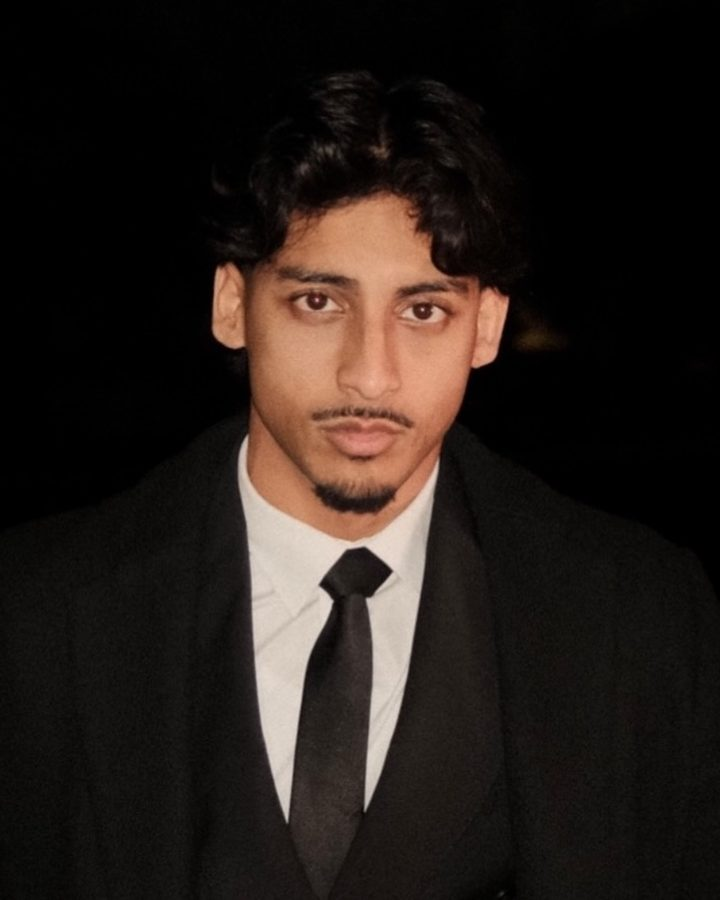
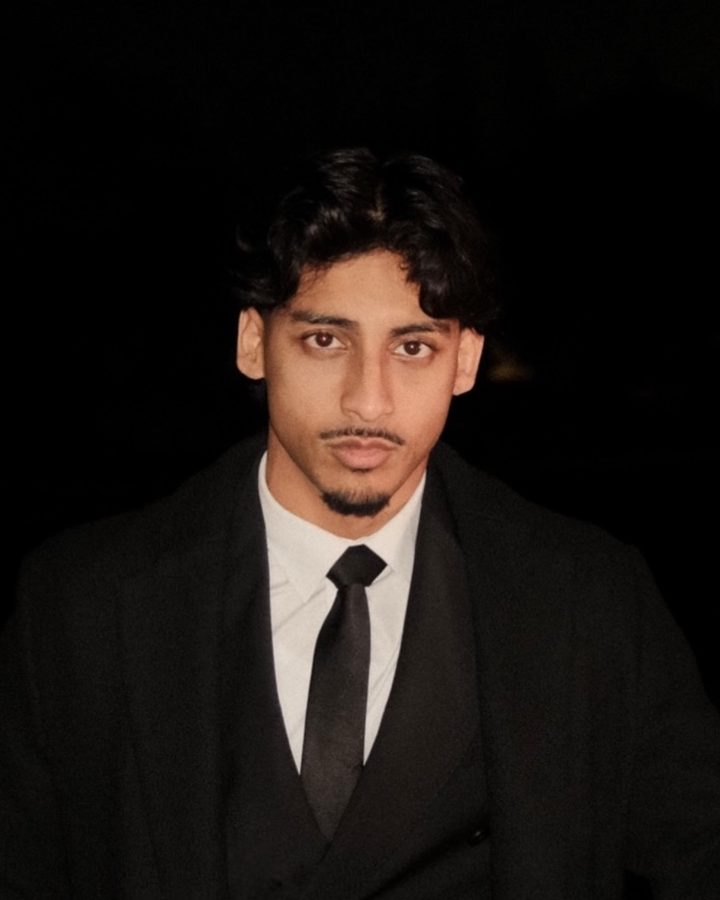
Wider profile crop on link page; soft faded portrait on media kit
Claude-Session: https://claude.ai/code/session_01EEkxtcytYFjkYcJ4nrgf1b

diff --git a/index.html b/index.html
@@ -277,7 +277,7 @@ const PROFILE = {
   name: "rak",
   handle: "@r44akk",
   bio: "My room, fragrances, fits and whatever I'm up to next. All in one place.",
[2 lines of base64/hex data omitted]
 };
 
 const SOCIALS = {

diff --git a/mediakit/index.html b/mediakit/index.html
@@ -67,7 +67,12 @@ a:focus-visible, button:focus-visible { outline: 2px solid var(--volt); outline-
 .handle { font-family: var(--mono); font-size: 14px; color: var(--muted); display: flex; gap: 16px; flex-wrap: wrap; }
 
 /* Portrait */
-.portrait { display: block; width: 128px; height: auto; aspect-ratio: 4 / 5; object-fit: cover; border-radius: 14px; border: 1px solid var(--line); background: #000; order: -1; }
+.portrait {
+  display: block; width: 128px; height: auto; aspect-ratio: 4 / 5; object-fit: cover; order: -1; background: transparent;
+  /* soft oval fade: the photo's black background dissolves into the page */
+  -webkit-mask-image: radial-gradient(ellipse 50% 50% at 50% 50%, #000 40%, rgba(0,0,0,.86) 54%, rgba(0,0,0,.58) 68%, rgba(0,0,0,.26) 82%, transparent 100%);
+          mask-image: radial-gradient(ellipse 50% 50% at 50% 50%, #000 40%, rgba(0,0,0,.86) 54%, rgba(0,0,0,.58) 68%, rgba(0,0,0,.26) 82%, transparent 100%);
+}
 @media (min-width: 640px), print {
   .hero { grid-template-columns: minmax(0, 1fr) 260px; column-gap: 40px; align-items: start; }
   .hero > * { grid-column: 1; }
